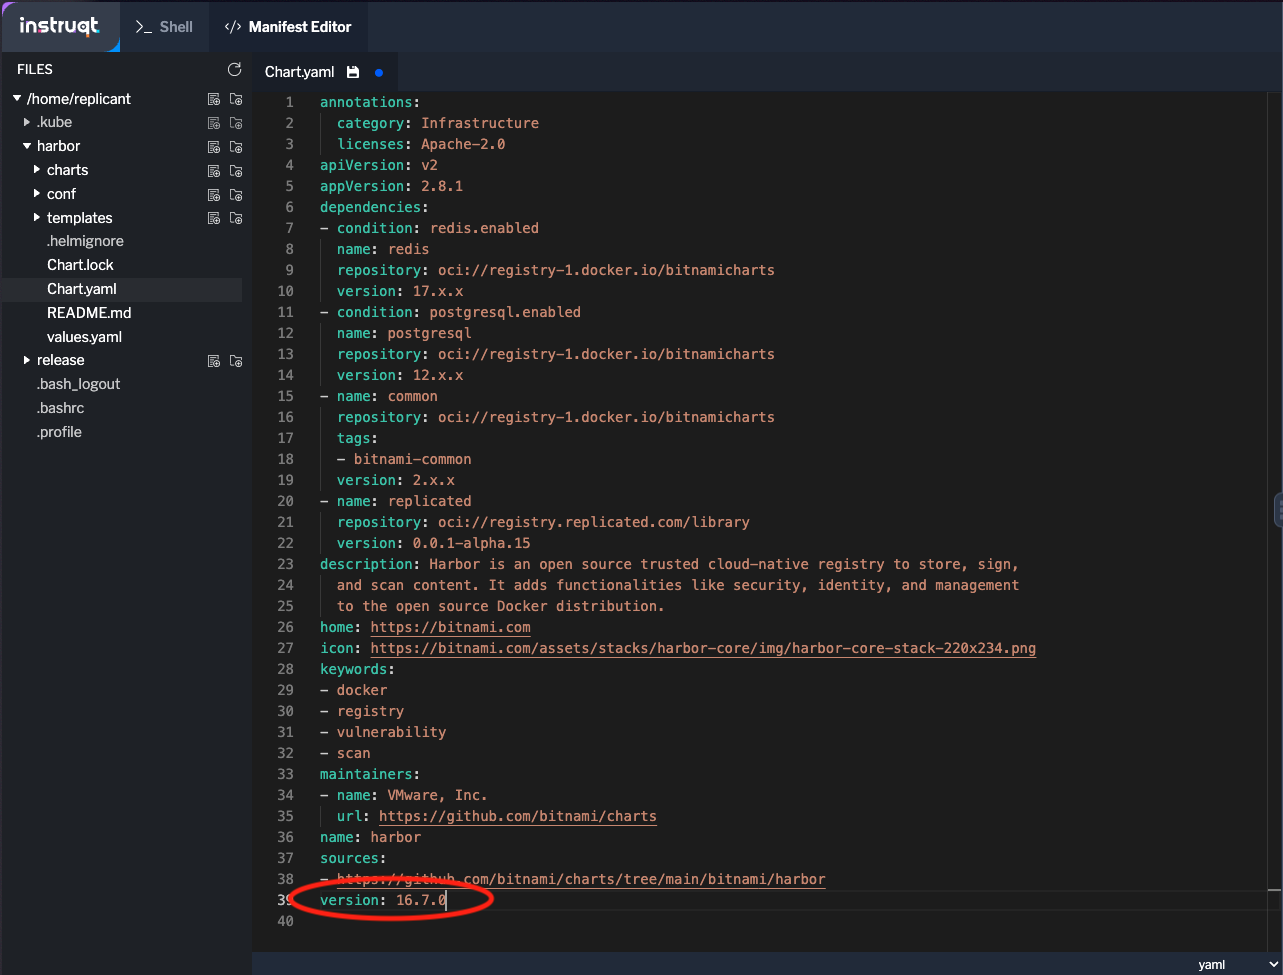
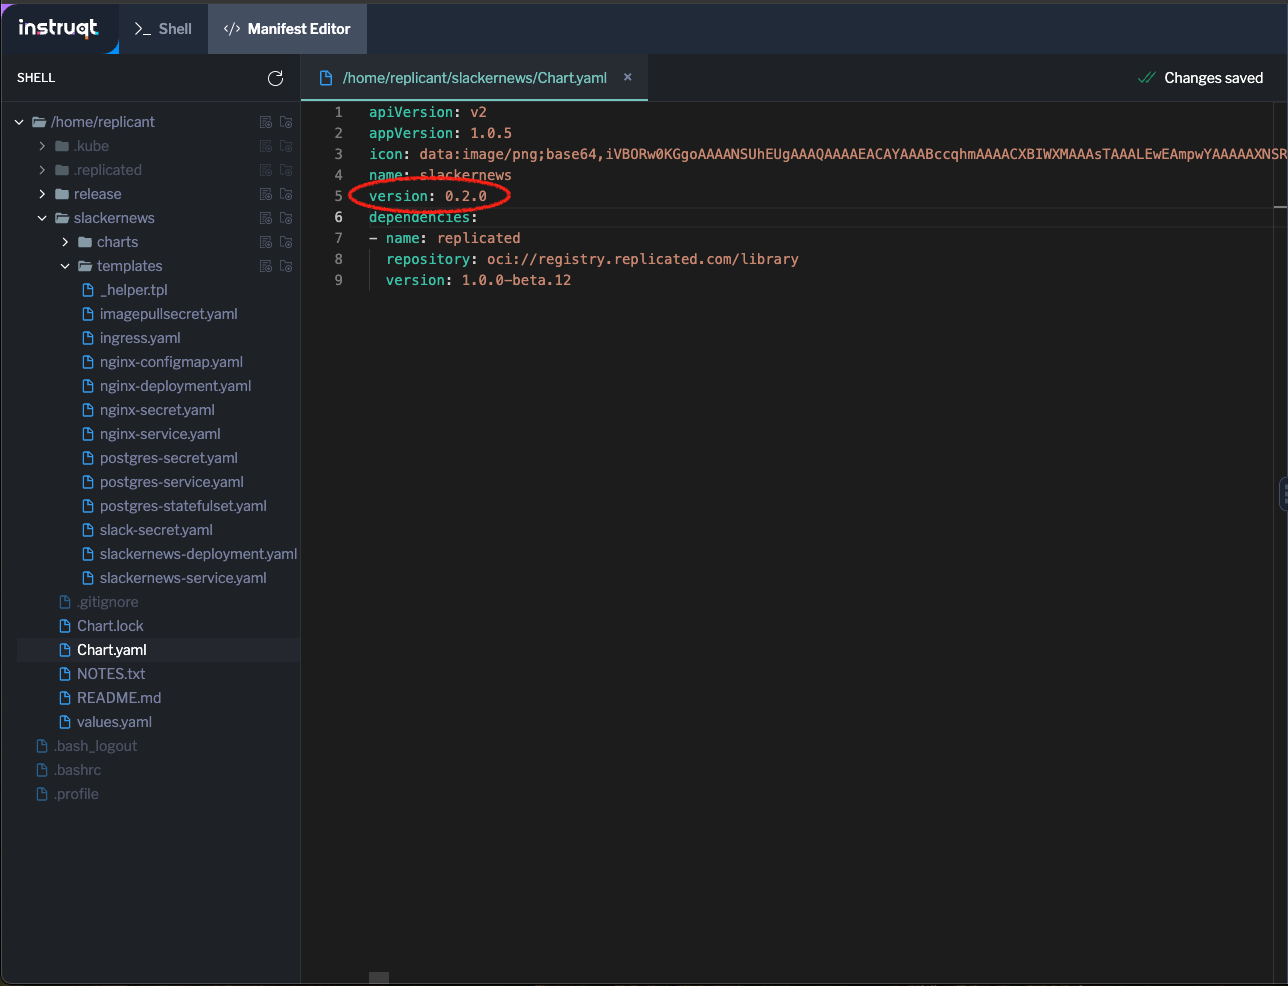
Reworks the second challenge

diff --git a/instruqt/distributing-with-replicated/02-enabling-the-sdk/assignment.md b/instruqt/distributing-with-replicated/02-enabling-the-sdk/assignment.md
@@ -39,7 +39,7 @@ Adding the Dependency
 ======================
 
 Go to the the "Manifest Editor" tab and edit the file `Chart.yaml` in
-the source directory `harbor`. You're going to make two changes to
+the source directory `slackernews`. You're going to make two changes to
 this file.
 
 First, you're going to add a dependency on the Replicated SDK Helm
@@ -51,9 +51,10 @@ chart.
   version: [[ Instruqt-Var key="REPLICATED_SDK_VERSION" hostname="shell" ]]
 ```
 
-You should put the dependency into the array with the other
-chart dependencies as show in the image. Use the version shown
-above, since it may be newer than the one in the screenshot.
+You should put the dependency into the array with any other chart dependencies.
+In this case, we don't have any dependencies so we need to add the key
+`dependencies` to the YAML file. Use the version shown above, since it may be
+newer than the one in the screenshot.
 
 ![Adding the Dependency](../assets/adding-the-dependency.png)
 
@@ -63,7 +64,7 @@ a fairly large change. It's not a breaking change, though, so
 let's just bump the minor version number.
 
 ```
-version: 19.2.0
+version: 0.2.0
 ```
 
 ![Bumping the Chart Version](../assets/bumping-the-version.png)
@@ -78,7 +79,7 @@ After saving, drop back in to the "Shell" tab and update your
 dependencies.
 
 ```shell
-helm dependency update harbor
+helm dependency update slackernews
 ```
 
 Repackaging Your Chart
@@ -88,7 +89,7 @@ After updating dependencies, you should repackage your Helm
 chart into a new tarball including the changes.
 
 ```
-helm package harbor --destination ./release
+helm package slackernews --destination ./release
 ```
 
 You should now have a tarball in directory `release` in your
@@ -101,5 +102,5 @@ ls release
 which shows
 
 ```
-harbor-19.2.0.tgz
+slackernews-0.2.0.tgz
 ```
